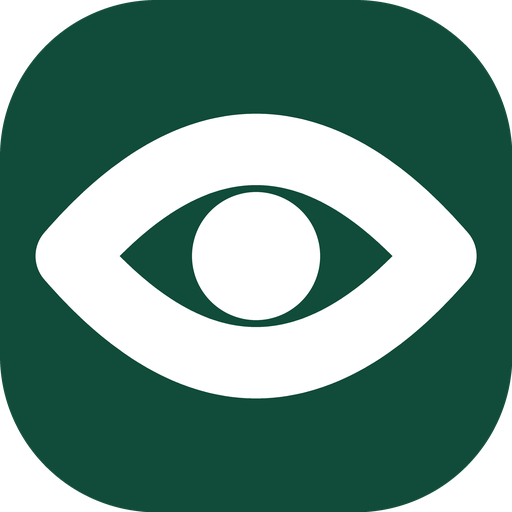
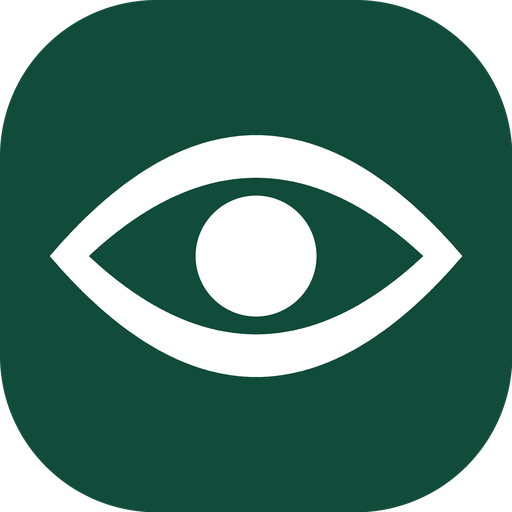
Afina el ojo, y trae la píldora arreglada de Palmo
**El ojo dejó de ser un trazo.** Era de grosor constante con remates redondos, y
por eso se veía basto: un ojo dibujado tiene el párpado grueso en medio y afilado
donde se juntan. Ahora no hay trazo — hay una almendra con otra recortada dentro,
y la distancia entre las dos da el grosor: máximo en el centro, cero en las
puntas. Todo en un único trazo con `evenOdd`, así la capa monocroma es
literalmente el mismo dibujo.

**La píldora vuelve de Palmo con un fallo arreglado** que era de aquí. Una
píldora sin acción se dibujaba igual con `onClick = {}` y `enabled = false`, y un
`Surface` clicable deshabilitado **se sigue tragando los toques**: `clickable`
consume el gesto a propósito para que no lo reciba lo que hay debajo. Como estas
píldoras se usan de remate a la derecha de las filas, tocar ese lado de la
tarjeta no hacía nada. Ahora, sin acción, se usa el `Surface` que no es un botón.
Viene también el tamaño intermedio: 24 dp está por debajo de cualquier objetivo
táctil razonable para una píldora que se toca.

**Ayuda y datos**: fuera la fila del código en GitHub, entra la de colaborar, que
dice lo que hay —Visto es código abierto pero se desarrolla con un equipo
escogido— y abre el correo con el asunto ya marcado, para que llegue clasificado.

**Y Visto deja de presentarse como una bifurcación.** El subtítulo de la versión
y la entradilla del README ya no lo dicen.

Lo que **no** he quitado es el crédito a WatchMaster del aviso legal, y no por
[…]

Changed region(s): [[0.0625, 0.2188, 0.9375, 0.7812], [0.1562, 0.3438, 0.8438, 0.6562]]

diff --git a/app/src/main/java/com/dwightsckrute/visto/core/ui/components/AppPill.kt b/app/src/main/java/com/dwightsckrute/visto/core/ui/components/AppPill.kt
@@ -39,7 +39,20 @@ import com.dwightsckrute.visto.core.ui.theme.Spacing
  * una nota bajo el título de una ficha, o una chapa dentro de la cabecera de una sección. Mismo
  * diseño, mismas proporciones, dos escalas; no ocho.
  */
-enum class PillSize { Large, Small }
+enum class PillSize {
+    Large,
+
+    /**
+     * El intermedio, para píldoras que **se tocan**.
+     *
+     * La pequeña mide 24 dp de alto: vale para una chapa que sólo informa, pero como selector queda
+     * por debajo de cualquier objetivo táctil razonable y se lee pequeña. Esta es la altura de una
+     * chip de Material y conserva el diseño de la píldora.
+     */
+    Medium,
+
+    Small,
+}
 
 @Composable
 fun AppPill(
@@ -55,31 +68,22 @@ fun AppPill(
 ) {
     val metrics = size.metrics()
 
-    Surface(
-        shape = RoundedCornerShape(metrics.radius),
-        color = container,
-        contentColor = onContainer,
-        // Sin `onClick` la píldora es exactamente lo que era: una etiqueta. Sólo las que llevan
-        // a algún sitio reciben ondas y el rol de botón, para no prometer un destino que no
-        // existe.
-        onClick = onClick ?: {},
-        enabled = onClick != null,
-        // La cifra y su etiqueta se anuncian como una sola frase; leerlas por separado no dice
-        // nada ("38", "Guardado").
-        //
-        // `clearAndSetSemantics` borra también lo que declaran los nodos de dentro, y el gesto
-        // de pulsar de `Surface` es uno de ellos: sin volver a declararlo aquí, una píldora que
-        // lleva a algún sitio se anunciaría como texto y quedaría fuera del alcance de quien
-        // navega con TalkBack.
-        modifier = modifier.clearAndSetSemantics {
-            this.contentDescription = contentDescription
-                ?: listOfNotNull(value, label).joinToString(" ")
-            if (onClick != null) {
-                this.role = Role.Button
-                onClick { onClick(); true }
-            }
-        },
-    ) {
+    // La semántica es la misma en las dos ramas: la cifra y su etiqueta se anuncian como una sola
+    // frase, porque leerlas por separado no dice nada ("38", "Guardado").
+    //
+    // `clearAndSetSemantics` borra también lo que declaran los nodos de dentro, y el gesto de pulsar
+    // de `Surface` es uno de ellos: sin volver a declararlo aquí, una píldora que lleva a algún sitio
+    // se anunciaría como texto y quedaría fuera del alcance de quien navega con TalkBack.
+    val semantics = modifier.clearAndSetSemantics {
+        this.contentDescription = contentDescription
+            ?: listOfNotNull(value, label).joinToString(" ")
+        if (onClick != null) {
+            this.role = Role.Button
+            onClick { onClick(); true }
+        }
+    }
+
+    val content: @Composable () -> Unit = {
         Row(
             modifier = Modifier
                 .heightIn(min = metrics.minHeight)
@@ -113,6 +117,35 @@ fun AppPill(
             )
         }
     }
+
+    // Dos ramas, y la de abajo es un arreglo, no una simetría.
+    //
+    // Antes era una sola con `onClick = onClick ?: {}` y `enabled = onClick != null`. Pero un
+    // `Surface` clicable deshabilitado **se sigue tragando los toques**: `clickable(enabled = false)`
+    // consume el gesto a propósito, para que no lo reciba lo que hay debajo. Y estas píldoras se usan
+    // como remate a la derecha de las filas de Ajustes —la chapa de un permiso, el "Ver" de un
+    // resumen—, así que tocar esa parte de la tarjeta no hacía nada: el toque moría en una etiqueta.
+    //
+    // Una píldora sin acción tiene que ser transparente a los eventos, y para eso hay que usar el
+    // `Surface` que no es un botón.
+    if (onClick == null) {
+        Surface(
+            shape = RoundedCornerShape(metrics.radius),
+            color = container,
+            contentColor = onContainer,
+            modifier = semantics,
+            content = content,
+        )
+    } else {
+        Surface(
+            shape = RoundedCornerShape(metrics.radius),
+            color = container,
+            contentColor = onContainer,
+            onClick = onClick,
+            modifier = semantics,
+            content = content,
+        )
+    }
 }
 
 /** El círculo tras el icono. Sale del color de contenido para no añadir un color más al tema. */
@@ -127,6 +160,8 @@ private class PillMetrics(
     val icon: Dp,
     /** El círculo tras el icono. Solo en la grande: en la pequeña era casi toda su altura. */
     val iconWell: Boolean,
+    /** true en el tamaño intermedio: sube la etiqueta un escalón sin llegar al de la grande. */
+    val mediumLabel: Boolean = false,
     val large: Boolean,
 ) {
     @Composable
@@ -137,10 +172,12 @@ private class PillMetrics(
     }
 
     @Composable
-    fun labelStyle() = if (large) {
-        MaterialTheme.typography.labelLarge
-    } else {
-        MaterialTheme.typography.labelSmall
+    fun labelStyle() = when {
+        large -> MaterialTheme.typography.labelLarge
+        // El intermedio necesita su propio escalón: con el de la pequeña, una píldora de 40 dp de
+        // alto llevaba dentro el texto más pequeño de la aplicación.
+        mediumLabel -> MaterialTheme.typography.labelLarge
+        else -> MaterialTheme.typography.labelSmall
     }
 }
 
@@ -155,6 +192,18 @@ private fun PillSize.metrics(): PillMetrics = when (this) {
         iconWell = true,
         large = true,
     )
+    PillSize.Medium -> PillMetrics(
+        radius = ShapeRadius.ExtraLarge,
+        minHeight = 40.dp,
+        horizontal = Spacing.md,
+        vertical = Spacing.sm,
+        gap = Spacing.xs,
+        icon = 16.dp,
+        iconWell = false,
+        large = false,
+        mediumLabel = true,
+    )
+
     // Sin el círculo del icono y con menos aire vertical. Con ellos, tres géneros y una nota
     // bajo el título de una ficha pesaban más que el propio título.
     PillSize.Small -> PillMetrics(

diff --git a/app/src/main/java/com/dwightsckrute/visto/feature/setting/SettingsScreen.kt b/app/src/main/java/com/dwightsckrute/visto/feature/setting/SettingsScreen.kt
@@ -466,13 +466,19 @@ fun SettingsScreen(navController: NavController) {
                         onClick = { navController.navigate(NavRoutes.LEGAL) },
                     ),
                     SettingTile.ActionTile(
-                        leading = { SettingsTileIcon(R.drawable.open_in_new_24px) },
-                        title = localized("Código fuente y sugerencias", "Source code and suggestions"),
+                        leading = { SettingsTileIcon(R.drawable.mail_24px) },
+                        title = localized("Colaborar en Visto", "Contribute to Visto"),
                         description = localized(
-                            "Consulta el código de Visto o abre un aviso en GitHub",
-                            "Read Visto's source code or open an issue on GitHub",
+                            "Visto es código abierto, pero se desarrolla con un equipo escogido. " +
+                                "Si quieres participar, escríbenos y lo hablamos.",
+                            "Visto is open source, but it is developed with a chosen team. If you " +
+                                "want to take part, write to us and we will talk.",
                         ),
-                        onClick = { openVistoWeb(context) },
+                        onClick = {
+                            if (!writeToVisto(context, collaborate = true)) {
+                                SnackbarManager.show(noMailLabel)
+                            }
+                        },
                     ),
                     SettingTile.ActionTile(
                         leading = { SettingsTileIcon(R.drawable.open_in_new_24px) },
@@ -511,8 +517,8 @@ fun SettingsScreen(navController: NavController) {
                     SettingTile.TextTile(
                         title = "Visto ${BuildConfig.VERSION_NAME}",
                         description = localized(
-                            "Bifurcación personal de WatchMaster · GNU GPL v3",
-                            "Personal WatchMaster fork · GNU GPL v3",
+                            "De Atalaya Software · GNU GPL v3",
+                            "By Atalaya Software · GNU GPL v3",
                         ),
                         leading = { SettingsTileIcon(R.drawable.info_24px) },
                     )
@@ -565,15 +571,10 @@ fun SettingsScreen(navController: NavController) {
     )
 }
 
-private fun openVistoWeb(context: android.content.Context) {
-    openExternal(context, SOURCE_URL)
-}
-
 private fun openExternal(context: android.content.Context, url: String): Boolean = runCatching {
     context.startActivity(Intent(Intent.ACTION_VIEW, url.toUri()))
 }.isSuccess
 
-private const val SOURCE_URL = "https://github.com/dwightsckrute/Visto"
 private const val ATALAYA_URL = "https://atalayasoftware.com"
 
 private const val KOFI_URL = "https://ko-fi.com/atalayasoftware"
@@ -589,9 +590,16 @@ private const val SUPPORT_EMAIL = "visto@atalayasoftware.com"
  * `ACTION_SENDTO` con `mailto:` y no `ACTION_SEND`, que abriría también mensajería y redes: aquí
  * se quiere escribir un correo a una dirección concreta.
  */
-private fun writeToVisto(context: Context): Boolean {
+private fun writeToVisto(context: Context, collaborate: Boolean = false): Boolean {
+    // El asunto ya trae la versión y, si viene de la fila de colaborar, lo dice: así el correo
+    // llega clasificado sin que haya que pedirle nada a quien escribe.
+    val subject = if (collaborate) {
+        "Visto ${BuildConfig.VERSION_NAME} · colaborar"
+    } else {
+        "Visto ${BuildConfig.VERSION_NAME}"
+    }
     val intent = Intent(Intent.ACTION_SENDTO, "mailto:$SUPPORT_EMAIL".toUri()).apply {
-        putExtra(Intent.EXTRA_SUBJECT, "Visto ${BuildConfig.VERSION_NAME}")
+        putExtra(Intent.EXTRA_SUBJECT, subject)
     }
     return runCatching { context.startActivity(intent) }.isSuccess
 }

diff --git a/app/src/main/java/com/dwightsckrute/visto/feature/legal/LegalScreen.kt b/app/src/main/java/com/dwightsckrute/visto/feature/legal/LegalScreen.kt
@@ -68,12 +68,22 @@ fun LegalScreen(onNavigateUp: () -> Unit) {
             LegalSection(title = localized("Acerca de Visto", "About Visto")) {
                 LegalBody(
                     localized(
-                        "Visto es una bifurcación personal de WatchMaster mantenida por Atalaya " +
-                            "Software. El trabajo original y las modificaciones pertenecen a sus " +
+                        "Visto lo desarrolla Atalaya Software.",
+                        "Visto is developed by Atalaya Software.",
+                    )
+                )
+                // Este párrafo no es promocional y no puede quitarse: la GPL v3 obliga a conservar
+                // los avisos de autoría del trabajo del que parte el código. Dejó de encabezar la
+                // pantalla —Visto ya no se presenta como una bifurcación— pero el crédito sigue
+                // donde tiene que estar, en el aviso legal.
+                LegalBody(
+                    localized(
+                        "Parte del código procede de WatchMaster, de Pranshul Gupta, bajo la misma " +
+                            "licencia. El trabajo original y las modificaciones pertenecen a sus " +
                             "respectivos autores.",
-                        "Visto is a personal fork of WatchMaster maintained by Atalaya Software. " +
-                            "The original work and the modifications belong to their respective " +
-                            "authors.",
+                        "Some of the code comes from WatchMaster, by Pranshul Gupta, under the same " +
+                            "licence. The original work and the modifications belong to their " +
+                            "respective authors.",
                     )
                 )
                 LegalBody(

diff --git a/README.md b/README.md
@@ -5,7 +5,7 @@
   <p><a href="https://github.com/dwightsckrute/Visto/releases/latest">Descargar la última versión</a></p>
 </div>
 
-Visto es una aplicación Android en español e inglés para guardar películas, series y libros, organizar listas y registrar el progreso de lo que ves y lees. Nace como una versión personal de [WatchMaster](https://github.com/PranshulGG/WatchMaster) y mantiene el proyecto original como `upstream`.
+Visto es una aplicación Android en español e inglés para guardar películas, series y libros, organizar listas y registrar el progreso de lo que ves y lees. La desarrolla [Atalaya Software](https://atalayasoftware.com).
 
 ## Características
 
